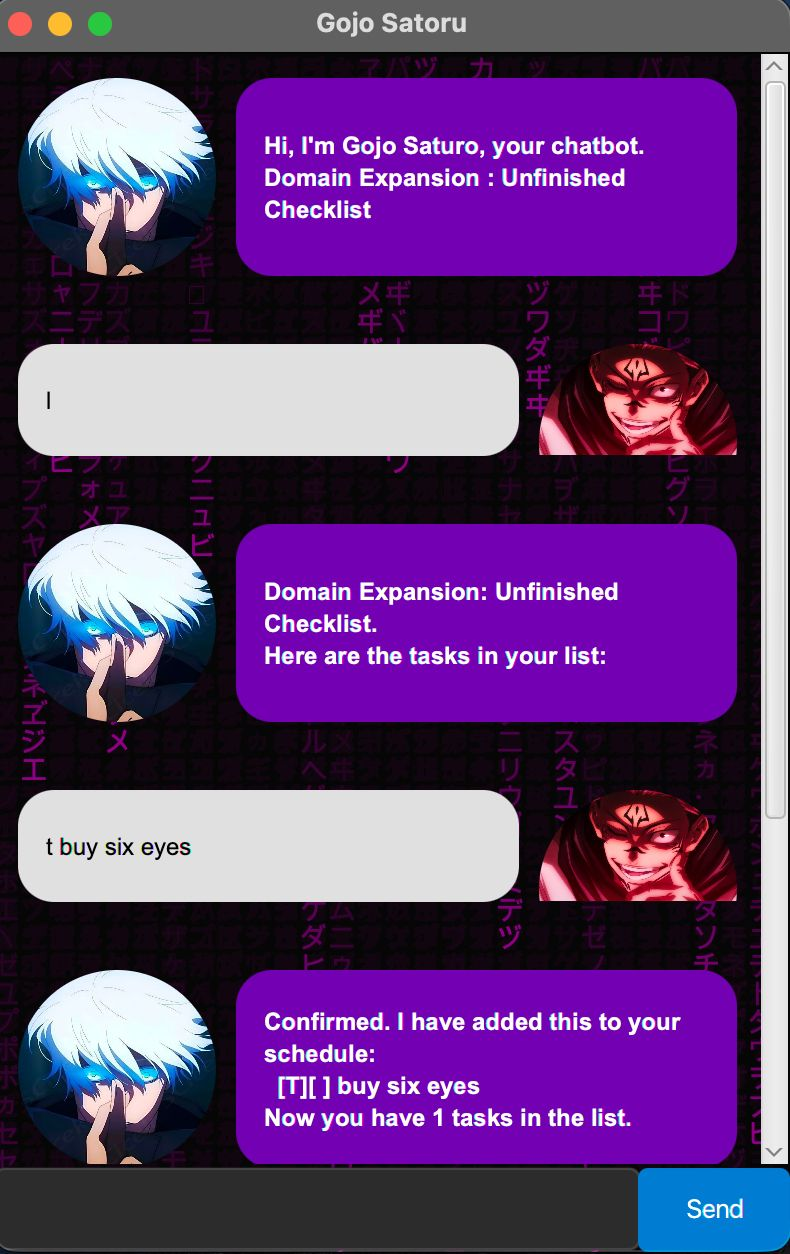
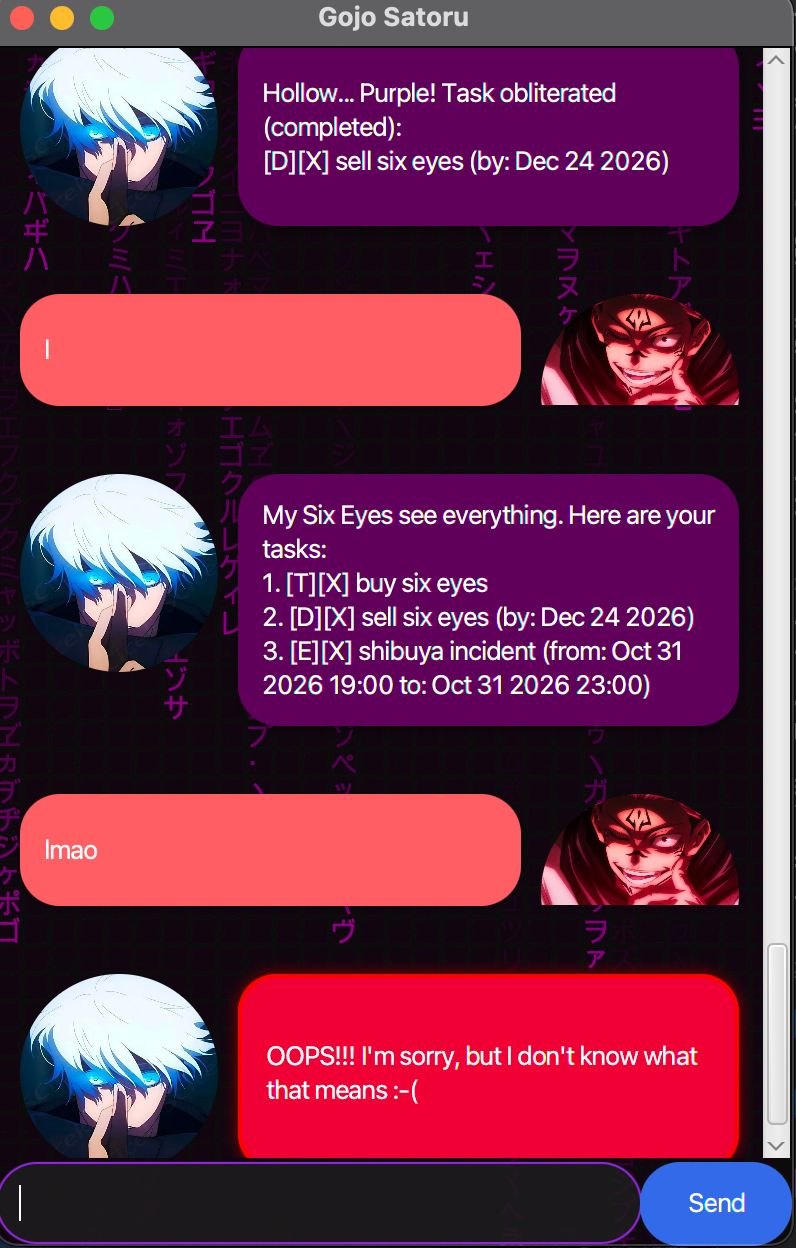
UI: Update dialog box color to purple theme Change the background color of the dialog box to match the Gojo Satoru persona.
Specific changes:
- Update DialogBox.java to use custom hex codes for the bot and user.
- Distinguish between user (red) and bot (purple) dialog styles.

diff --git a/src/main/resources/view/style.css b/src/main/resources/view/style.css
@@ -29,7 +29,7 @@
 
 /* Gojo Dialog Bubble - Mystical Purple */
 .dialog-box-gojo {
-    -fx-background-color: #8A2BE2;
+    -fx-background-color: #580058;
     /* BlueViolet */
     -fx-background-radius: 20;
     -fx-padding: 12;
